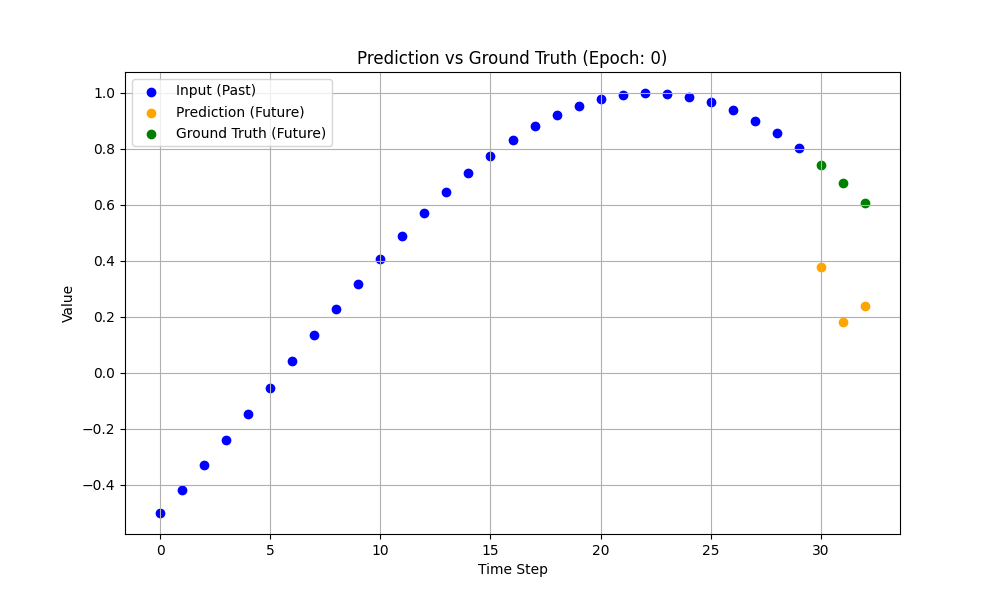
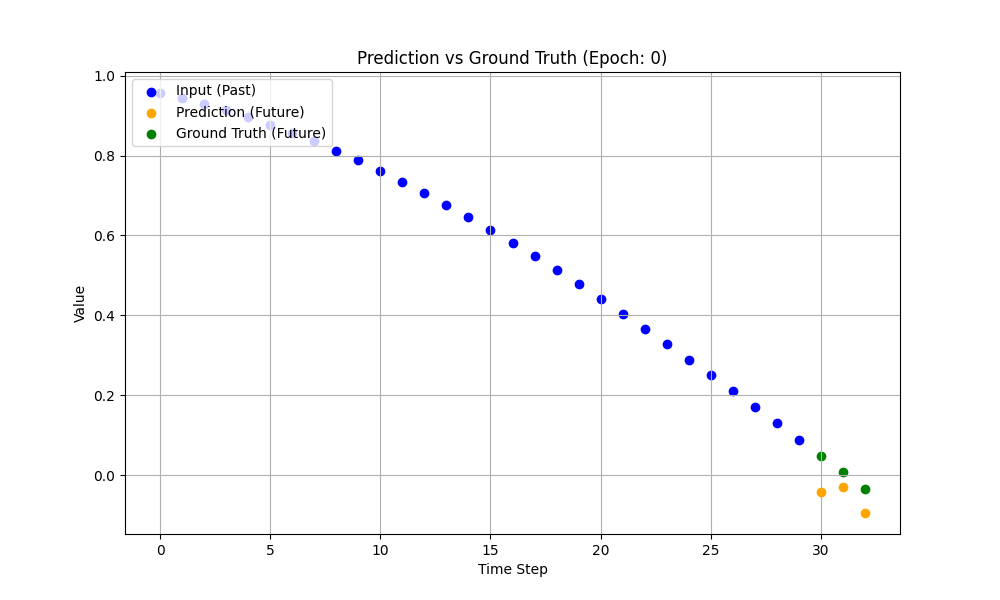
add info

diff --git a/pytorch.py b/pytorch.py
@@ -246,6 +246,39 @@ class own_Conv1d(nn.Module):
     def preprocess_input(self, x):
         return x.view(-1, NUM_INPUT_PARAMETERS, SEQ_LEN_PAST)
 
+class own_LSTM(nn.Module):
+    def __init__(self):
+        super(own_LSTM, self).__init__()
+        self.inputLayer = nn.LSTM(NUM_INPUT_PARAMETERS, HIDDEN_SIZE, batch_first=True, bias=True)
+        self.lstmLayer1 = nn.LSTM(HIDDEN_SIZE, HIDDEN_SIZE, batch_first=True, bias=True)
+        self.outputLayer = nn.Linear(HIDDEN_SIZE, SEQ_LEN_FUTURE * NUM_OUTPUT_PARAMETERS)
+
+    def forward(self, x):
+        # Pass through the first LSTM layer
+        x, _ = self.inputLayer(x)
+        print(f"After inputLayer: {x.shape}")  # Debug print
+        
+        # Pass through the second LSTM layer
+        x, _ = self.lstmLayer1(x)
+        print(f"After lstmLayer1: {x.shape}")  # Debug print
+        
+        # Pass through the final linear layer
+        # Only use the last output (hidden state at the last time step)
+        x = x[:, -1, :]  # Select the last time step output
+        print(f"After selecting last time step: {x.shape}")  # Debug print
+        
+        x = self.outputLayer(x)
+        print(f"After outputLayer: {x.shape}")  # Debug print
+
+        # Reshape the output to match the expected label shape
+        batch_size = x.size(0)
+        x = x.view(batch_size, SEQ_LEN_FUTURE, NUM_OUTPUT_PARAMETERS)
+        print(f"Final reshaped output: {x.shape}")  # Debug print
+
+        return x
+
+    def preprocess_input(self, x):
+        return x.view(-1, SEQ_LEN_PAST, NUM_INPUT_PARAMETERS)
 
 
 def train_model(model, loss_fn, optimizer, data_path: str, device):
@@ -264,7 +297,11 @@ def train_model(model, loss_fn, optimizer, data_path: str, device):
             inputs, labels = next(train_data)
             optimizer.zero_grad()
             outputs = model(inputs)
-            loss = loss_fn(outputs, labels.view(BATCH_SIZE, SEQ_LEN_FUTURE * NUM_OUTPUT_PARAMETERS))
+            print("\n\n")
+            print(f"outputs shape: {outputs.shape}")
+            print(f"labels shape: {labels.shape}")
+            print("\n\n")
+            loss = loss_fn(outputs, labels.view(-1, SEQ_LEN_FUTURE, NUM_OUTPUT_PARAMETERS))
             loss.backward()
             optimizer.step()
             train_loss += loss.item()
@@ -277,7 +314,7 @@ def train_model(model, loss_fn, optimizer, data_path: str, device):
         for step in range(VALIDATION_STEPS):
             inputs, labels = next(val_data)
             outputs = model(inputs)
-            loss = loss_fn(outputs, labels.view(BATCH_SIZE, SEQ_LEN_FUTURE * NUM_OUTPUT_PARAMETERS))
+            loss = loss_fn(outputs, labels.view(-1, SEQ_LEN_FUTURE, NUM_OUTPUT_PARAMETERS))
             val_loss += loss.item()
         validate_loss_history.append(val_loss / VALIDATION_STEPS)
 
@@ -296,8 +333,10 @@ def main():
     data_path = "./datasets/sin_data/"
 
 
-    model = own_MLP()
-    #model = own_Conv1d()
+    # model = own_MLP()
+    # model = own_Conv1d()
+    model = own_LSTM()
+
     model = model.to(device)
     loss_fn = nn.MSELoss()
     optimizer = optim.Adam(model.parameters(), lr=0.001)

diff --git a/_info.md b/_info.md
@@ -1,0 +1,5 @@
+# Info bsNeuro
+
+## Possible/Intresting Datasets:
+- [All-Time Stock Price Data](https://www.kaggle.com/datasets/hchsmost/test-dataset/data)
+- [Climate Change: Earth Surface Temperature Data](https://www.kaggle.com/datasets/berkeleyearth/climate-change-earth-surface-temperature-data?select=GlobalLandTemperaturesByCity.csv)
